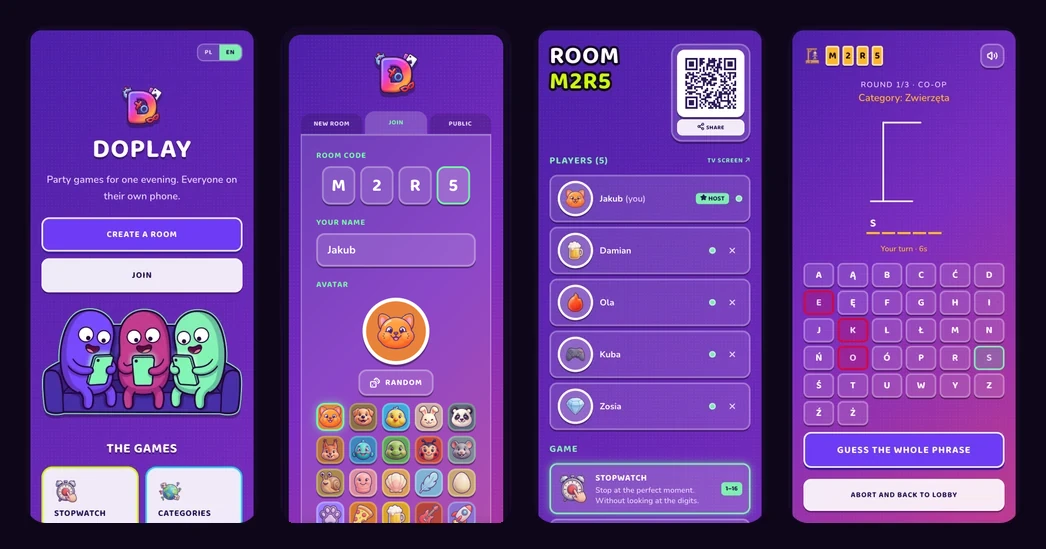
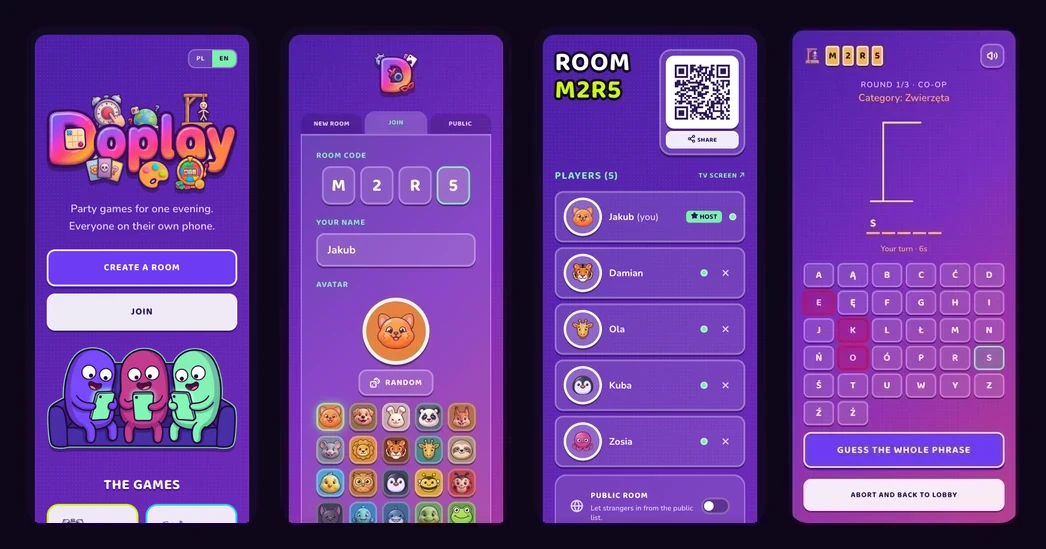
fix(dev): service worker nie rejestruje się poza produkcją + świeże zrzuty i README
SERVICE WORKER. `next.config.ts` wyłącza Serwista w dev, ale `public/sw.js`
z ostatniego builda produkcyjnego dalej leży na dysku i jest serwowany.
`ServiceWorkerRegister` rejestrował go bezwarunkowo, więc sesja deweloperska
chodziła pod workerem zbudowanym z INNEGO bundla i dostawała od niego chunki
tamtej wersji.

Objawy nie wyglądają na problem z cache i o to w nich najgorsze: „Invalid or
unexpected token" przy zielonym buildzie, ekran zawieszony na skeletonie mimo
poprawnych reguł i tokenu, surowe klucze słownika zamiast tekstów. To ostatnie
zgłosił Jakub w Safari — twierdziłem wtedy, że to resztka po dawnym `npm start`.
Myliłem się: aplikacja rejestrowała workera przy każdym wejściu w dev.

Komponent dodatkowo WYREJESTROWUJE workera, który już siedzi w przeglądarce.
To ważniejsze niż sam brak rejestracji, bo `unregister()` działa dopiero po
zamknięciu wszystkich kontrolowanych kart, a twarde odświeżenie go nie rusza.

ZRZUTY. Panel lobby pokazywał awatary piwa, płomienia, pada i diamentu — wszystkie
wycofane w ETAP-ie 11. Panele 1-3 złapane od nowa w obu językach, czwarty (runda
wisielca) został, bo nie ma w nim awatarów i nadal jest prawdziwy. Kod pokoju M2R5
odtworzony celowo, żeby lobby i runda dalej pokazywały ten sam pokój.

README dostaje logotyp w nagłówku zamiast ikony z osobnym napisem, a opis awatarów
mówi teraz to, co je definiuje: każdy ma twarz.

diff --git a/src/components/ServiceWorkerRegister.tsx b/src/components/ServiceWorkerRegister.tsx
@@ -6,6 +6,26 @@ import { useEffect } from "react";
 export function ServiceWorkerRegister() {
   useEffect(() => {
     if (typeof navigator === "undefined" || !("serviceWorker" in navigator)) return;
+
+    // W dev NIE rejestrujemy i dodatkowo sprzątamy po sobie.
+    //
+    // `next.config.ts` wyłącza Serwista w dev, więc `public/sw.js` NIE jest wtedy
+    // przebudowywany — ale plik z ostatniego builda produkcyjnego dalej leży na dysku
+    // i jest serwowany. Rejestracja podpinała więc workera zbudowanego z INNEGO bundla,
+    // który potem podawał chunki z tamtej wersji. Objawy są mylące, bo nie wyglądają
+    // na problem z cache: „Invalid or unexpected token", zawieszony skeleton albo
+    // surowe klucze słownika zamiast tekstów.
+    //
+    // Wyrejestrowanie jest ważniejsze niż sam brak rejestracji: bez niego worker
+    // złapany wcześniej siedzi w przeglądarce i psuje kolejne sesje, a przeciętny
+    // sposób na to (twarde odświeżenie) go nie rusza.
+    if (process.env.NODE_ENV !== "production") {
+      navigator.serviceWorker.getRegistrations().then((rejestracje) => {
+        for (const r of rejestracje) r.unregister();
+      });
+      return;
+    }
+
     const register = () => {
       navigator.serviceWorker.register("/sw.js", { scope: "/" }).catch(() => {});
     };

diff --git a/CLAUDE.md b/CLAUDE.md
@@ -235,3 +235,42 @@ telefon, zawieszał partię reszty bez wyjścia poza przerwanie gry.
 - Kto nie zdążył, **nie wypada z gry** — rola zostaje, po prostu przestajemy czekać.
 - Pułapka pokryta testem: kolejna tura musi dostać ŚWIEŻY termin. Odziedziczony byłby
   już miniony i wygasałby natychmiast.
+
+### Service worker potrafi udawać błąd aplikacji
+
+`next.config.ts` wyłącza Serwista w dev, ale `public/sw.js` z ostatniego builda
+produkcyjnego **dalej leży na dysku i jest serwowany**. `ServiceWorkerRegister`
+rejestrował go bezwarunkowo, więc sesja deweloperska chodziła pod workerem
+zbudowanym z INNEGO bundla i dostawała od niego chunki tamtej wersji.
+
+Objawy nie wyglądają na problem z cache i o to w nich najgorsze:
+
+- `Invalid or unexpected token` w konsoli, choć `npm run build` przechodzi czysto,
+- ekran zawieszony na skeletonie, mimo że reguły i token są w porządku,
+- surowe klucze słownika (`stoper.gameOver`) zamiast tekstów.
+
+Komponent nie rejestruje już workera poza produkcją i **wyrejestrowuje ten, który
+został**. To drugie jest ważniejsze: `unregister()` działa dopiero, gdy zamkną się
+wszystkie kontrolowane karty, a twarde odświeżenie go nie rusza. Kto już ma workera
+w przeglądarce, odzyska normalne działanie dopiero po tej poprawce.
+
+Diagnostyka na przyszłość: `navigator.serviceWorker.controller` w konsoli. Jeśli nie
+jest `null` na `localhost`, to najpierw podejrzewaj jego, a nie własny kod. Origin
+obejmuje port, więc drugi port to czysta przeglądarka — ale **dwa serwery dev naraz
+rozjeżdżają wspólny `.next`** i sypią `Expected clientReferenceManifest to be defined`.
+Wtedy jeden serwer, `rm -rf .next` i od nowa.
+
+### Pakiet awatarów to same postacie
+
+Po wymianie w ETAP-ie 11 wszystkie 30 awatarów ma twarz. Kryterium jest twarde:
+awatar odpowiada na pytanie „kim jestem przy tym stole" i na to nie da się odpowiedzieć
+jajkiem ani kotwicą. Trzynaście martwych przedmiotów wypadło, pizza i piwo poszły za nimi.
+
+Wycofane identyfikatory **zostają w `LEGACY_AVATARS`**, nigdy nie znikają. Gracz siedzący
+w pokoju ze starym awatarem inaczej dostałby z `/join` „Nieznany awatar" i nie wróciłby
+do własnej partii. Drugą warstwą jest migracja sesji w `store/session.ts`: podmienia
+zapisany awatar na domyślny, zanim formularz zdąży go wysłać.
+
+Kolor kafelka (`avatarColor`) jest ważniejszy niż sylwetka. Przy trzydziestu okrągłych
+ikonach po 40 px to on decyduje, czy da się je odróżnić — dlatego żyrafa dostała turkus,
+a tygrys ciemne kakao, choć obie postacie są ciepłe.

diff --git a/README.md b/README.md
@@ -1,8 +1,6 @@
 <p align="center">
-  <img src="public/icon-512.png" width="96" height="96" alt="Doplay logo" style="border-radius: 20px" />
+  <img src="public/logo-doplay.webp" width="420" alt="Doplay" />
 </p>
-
-<h1 align="center">Doplay</h1>
 
 <p align="center">
   <b>English</b> · <a href="README.pl.md">Polski</a>
@@ -100,7 +98,7 @@ Open it from the lobby; players keep their own phones.
 - **Deep link** — `doplay.pl/?kod=XYZW` goes straight into the room
 - **Sharing** — Share button (native share / clipboard fallback)
 - **Host screen (TV)** — separate landscape layout for a laptop/TV, readable from the couch
-- **Avatars** — 30 illustrated icons on colored tiles; no two people in a room get the same one
+- **Avatars** — 30 illustrated characters on colored tiles, every one a face that looks back at you; no two people in a room get the same one
 - **Spectator mode** — `?widz=1` gets you into the room to watch without taking a seat, in any game
 - **Public rooms** — the host opens the room to strangers with one switch in the lobby, and closes it again once the group is complete. The list shows how many are waiting and how long the room has been open, and drops rooms that are full, mid-game or abandoned
 - **Game rules** — modal with steps for each game

diff --git a/README.pl.md b/README.pl.md
@@ -1,8 +1,6 @@
 <p align="center">
-  <img src="public/icon-512.png" width="96" height="96" alt="Doplay logo" style="border-radius: 20px" />
+  <img src="public/logo-doplay.webp" width="420" alt="Doplay" />
 </p>
-
-<h1 align="center">Doplay</h1>
 
 <p align="center">
   <a href="README.md">English</a> · <b>Polski</b>
@@ -92,7 +90,7 @@ Otwierasz go z lobby; gracze zostają przy swoich telefonach.
 - **Deep link** — `doplay.pl/?kod=XYZW` wchodzi prosto do pokoju
 - **Udostępnianie** — przycisk Share (native share / clipboard fallback)
 - **Ekran hosta (TV)** — osobny układ poziomy na laptop/TV, czytelny z kanapy
-- **Awatary** — 30 ilustrowanych ikon w kolorowych kafelkach; w jednym pokoju nikt nie dostaje tego samego
+- **Awatary** — 30 ilustrowanych postaci w kolorowych kafelkach, każda z twarzą patrzącą na gracza; w jednym pokoju nikt nie dostaje tego samego
 - **Tryb widza** — `?widz=1` wpuszcza do pokoju na podgląd, bez zajmowania miejsca, w każdej grze
 - **Pokoje publiczne** — host otwiera pokój dla obcych jednym przełącznikiem w lobby i zamyka go, gdy skład się skompletuje. Lista pokazuje, ilu czeka i jak dawno pokój stoi otwarty, a odsiewa pokoje pełne, w trakcie gry i porzucone
 - **Zasady gier** — modal z krokami dla każdej gry
